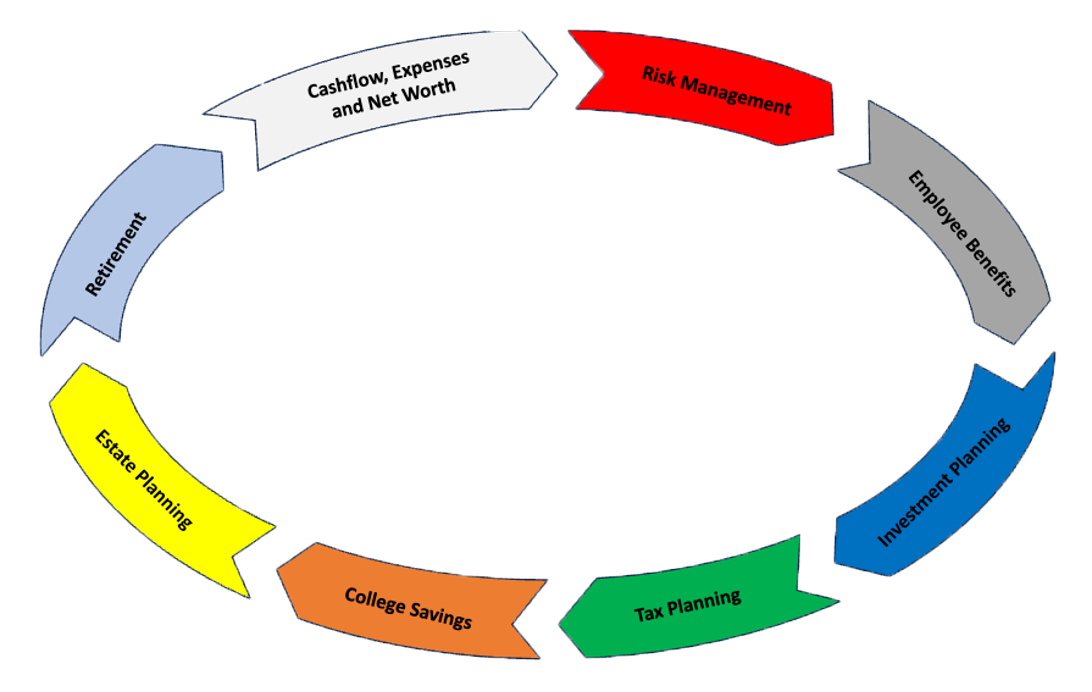
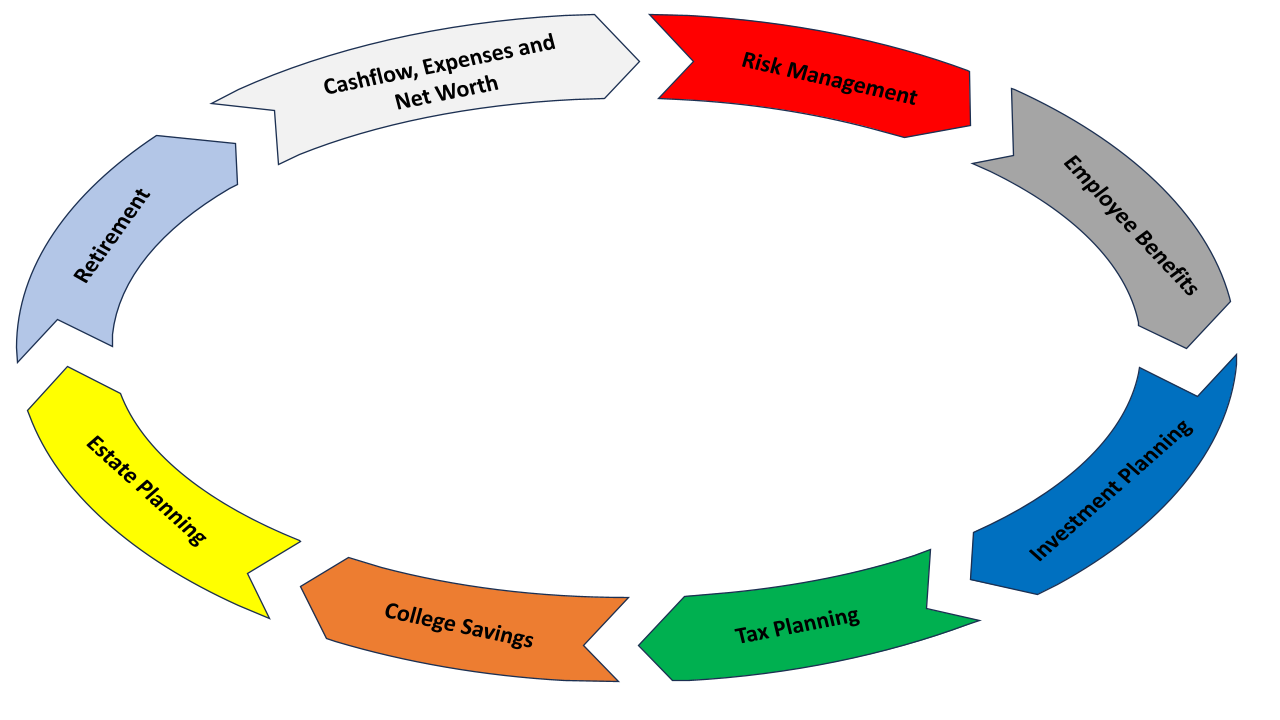
HD services pic, fixed spacing, font weight in about bio

diff --git a/pages/about/index.js b/pages/about/index.js
@@ -18,8 +18,8 @@ export default function About() {
                 <div className={styles.left}>
                     <Image src="/krishna.jpg" width={200} height={200} style={{ width: '90%', height: 'auto' }} className={styles.krisha} />
                     <div className={styles.education}>
-                        <b>MS</b>, Computer Science, Kansas State University<br />
-                        <b>MBA</b>, Cox School of Business, SMU<br />
+                        <bold>MS</bold>, Computer Science, Kansas State University<br />
+                        <bold>MBA</bold>, Cox School of Business, SMU<br />
                         Passed CFA Level I and Level II Examinations
                     </div>
                 </div>

diff --git a/styles/globals.css b/styles/globals.css
@@ -131,3 +131,7 @@ main {
   max-width: 1500px;
   margin: auto;
 }
+
+bold {
+  font-weight: 500;
+}

diff --git a/pages/services/index.js b/pages/services/index.js
@@ -39,7 +39,7 @@ export default function Services() {
             Investment Planning<br />
             Tax Planning<br />
             Estate Preservation</div>
-            <Image src="/services.png" width={200} height={0} style={{ width: '600px', height: 'auto' }} className={styles.bodyImage}/>
+            <Image src="/services.png" width={1000} height={0} style={{ width: '1000px', height: 'auto' }} className={styles.bodyImage}/>
           </div>
 
          

diff --git a/styles/Services.module.css b/styles/Services.module.css
@@ -37,6 +37,7 @@
     flex-wrap: wrap;
     width: 100%;
     align-items: center;
+    padding-bottom: 3rem;
 }
 
 .bodyImage {